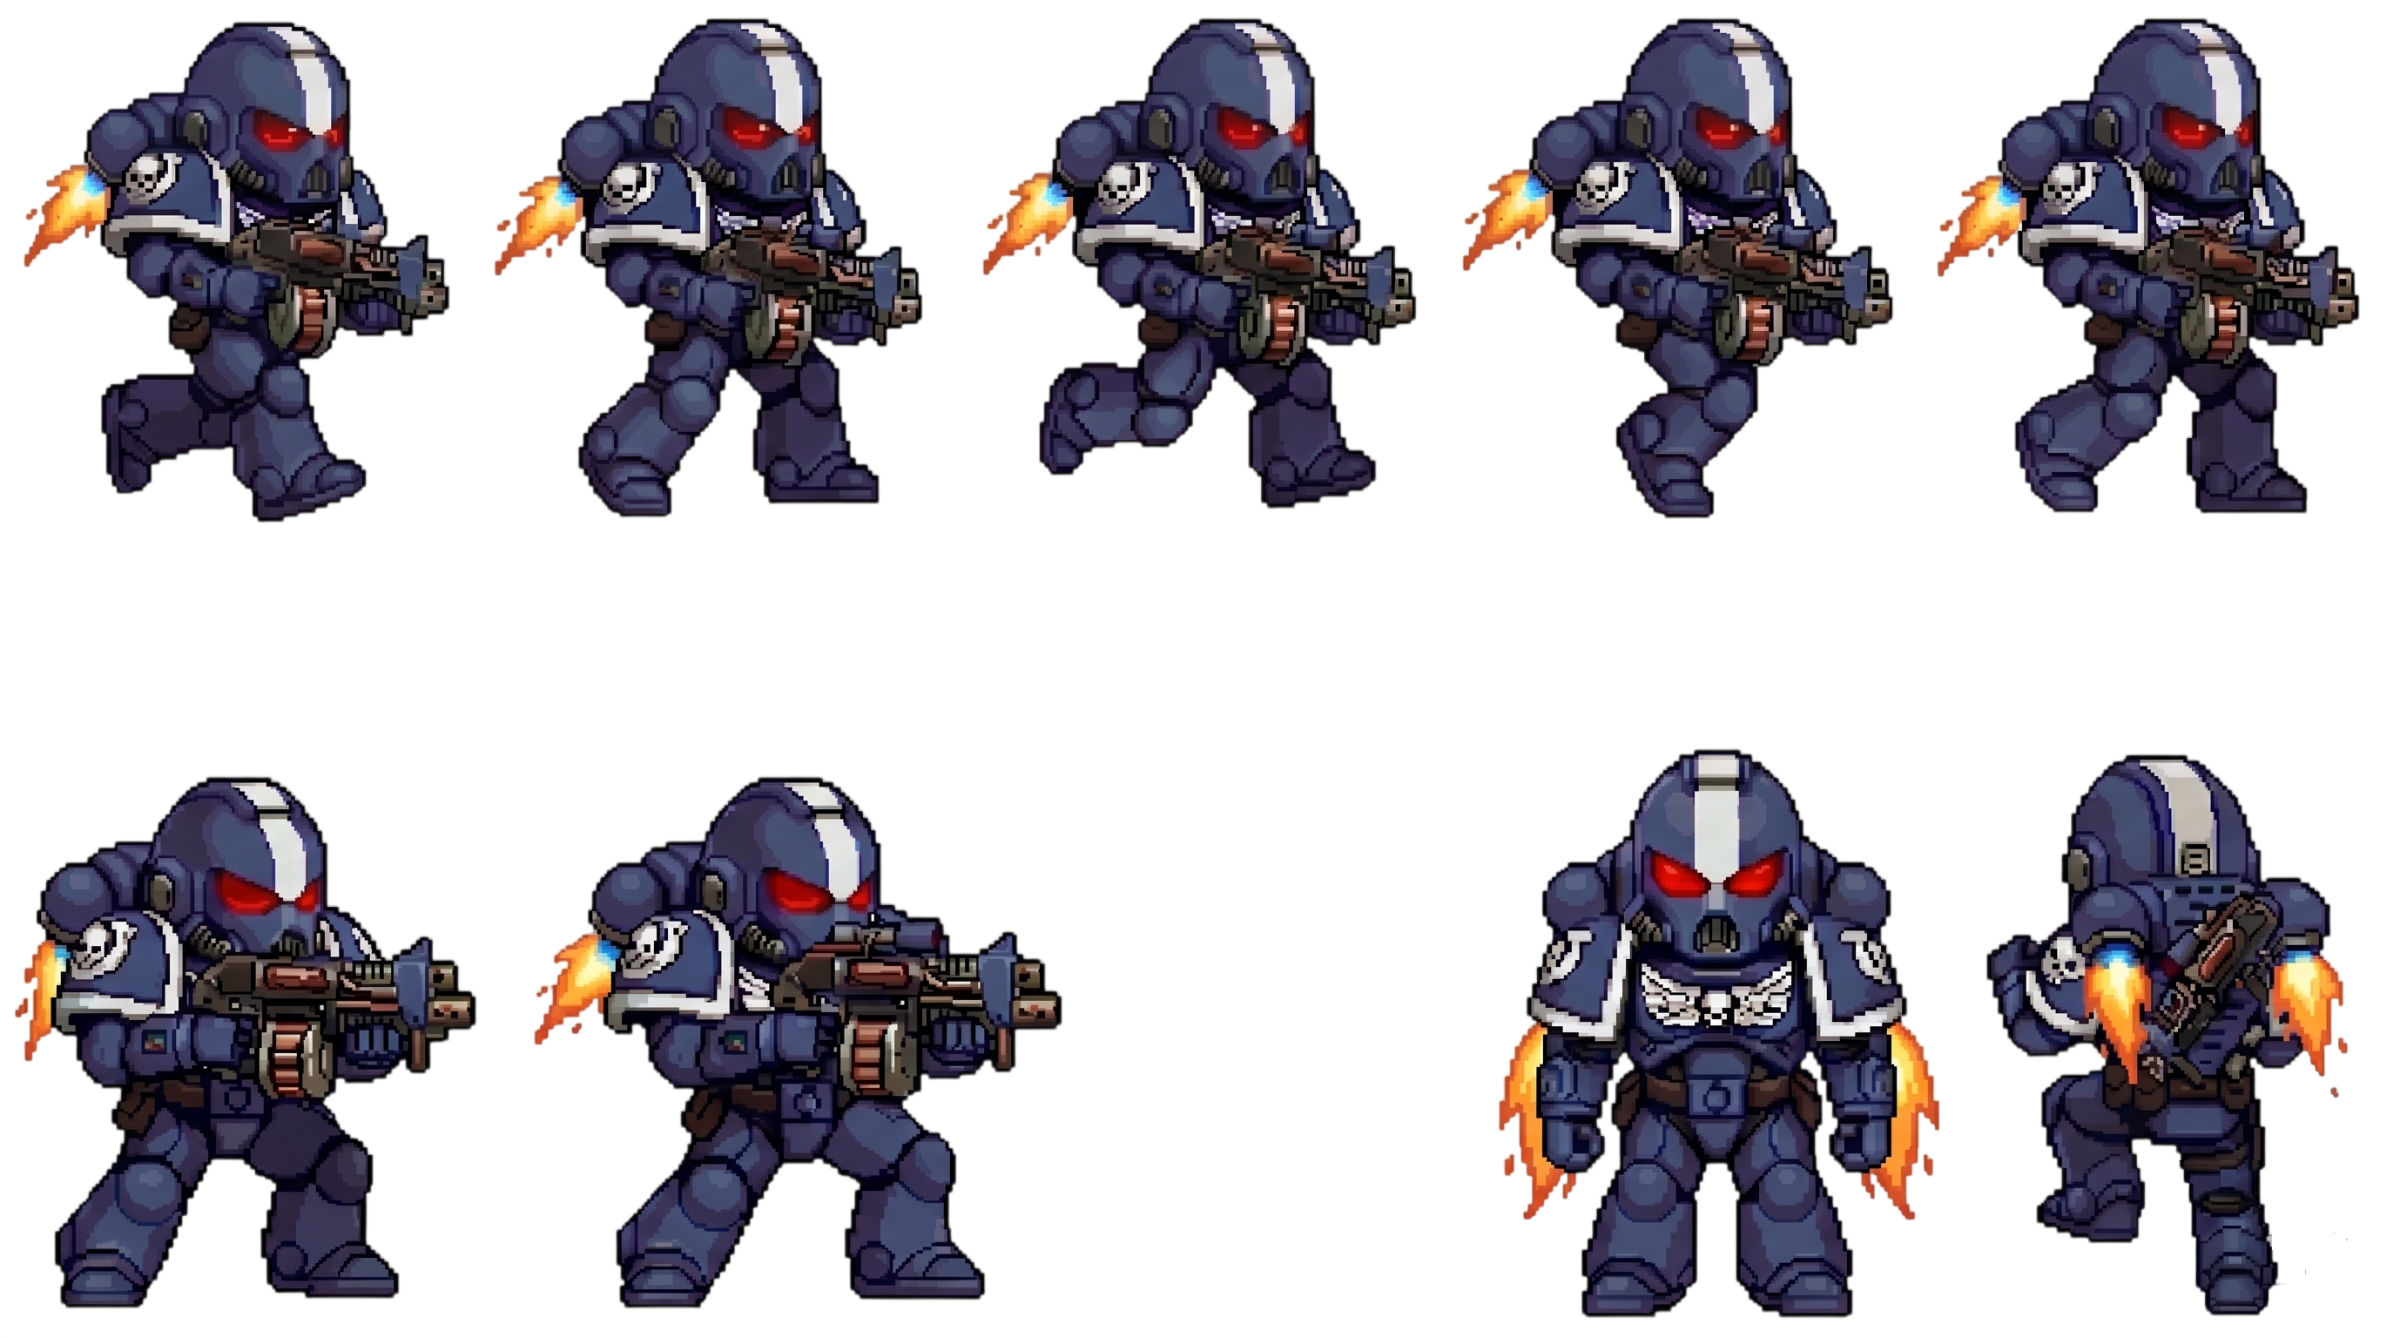
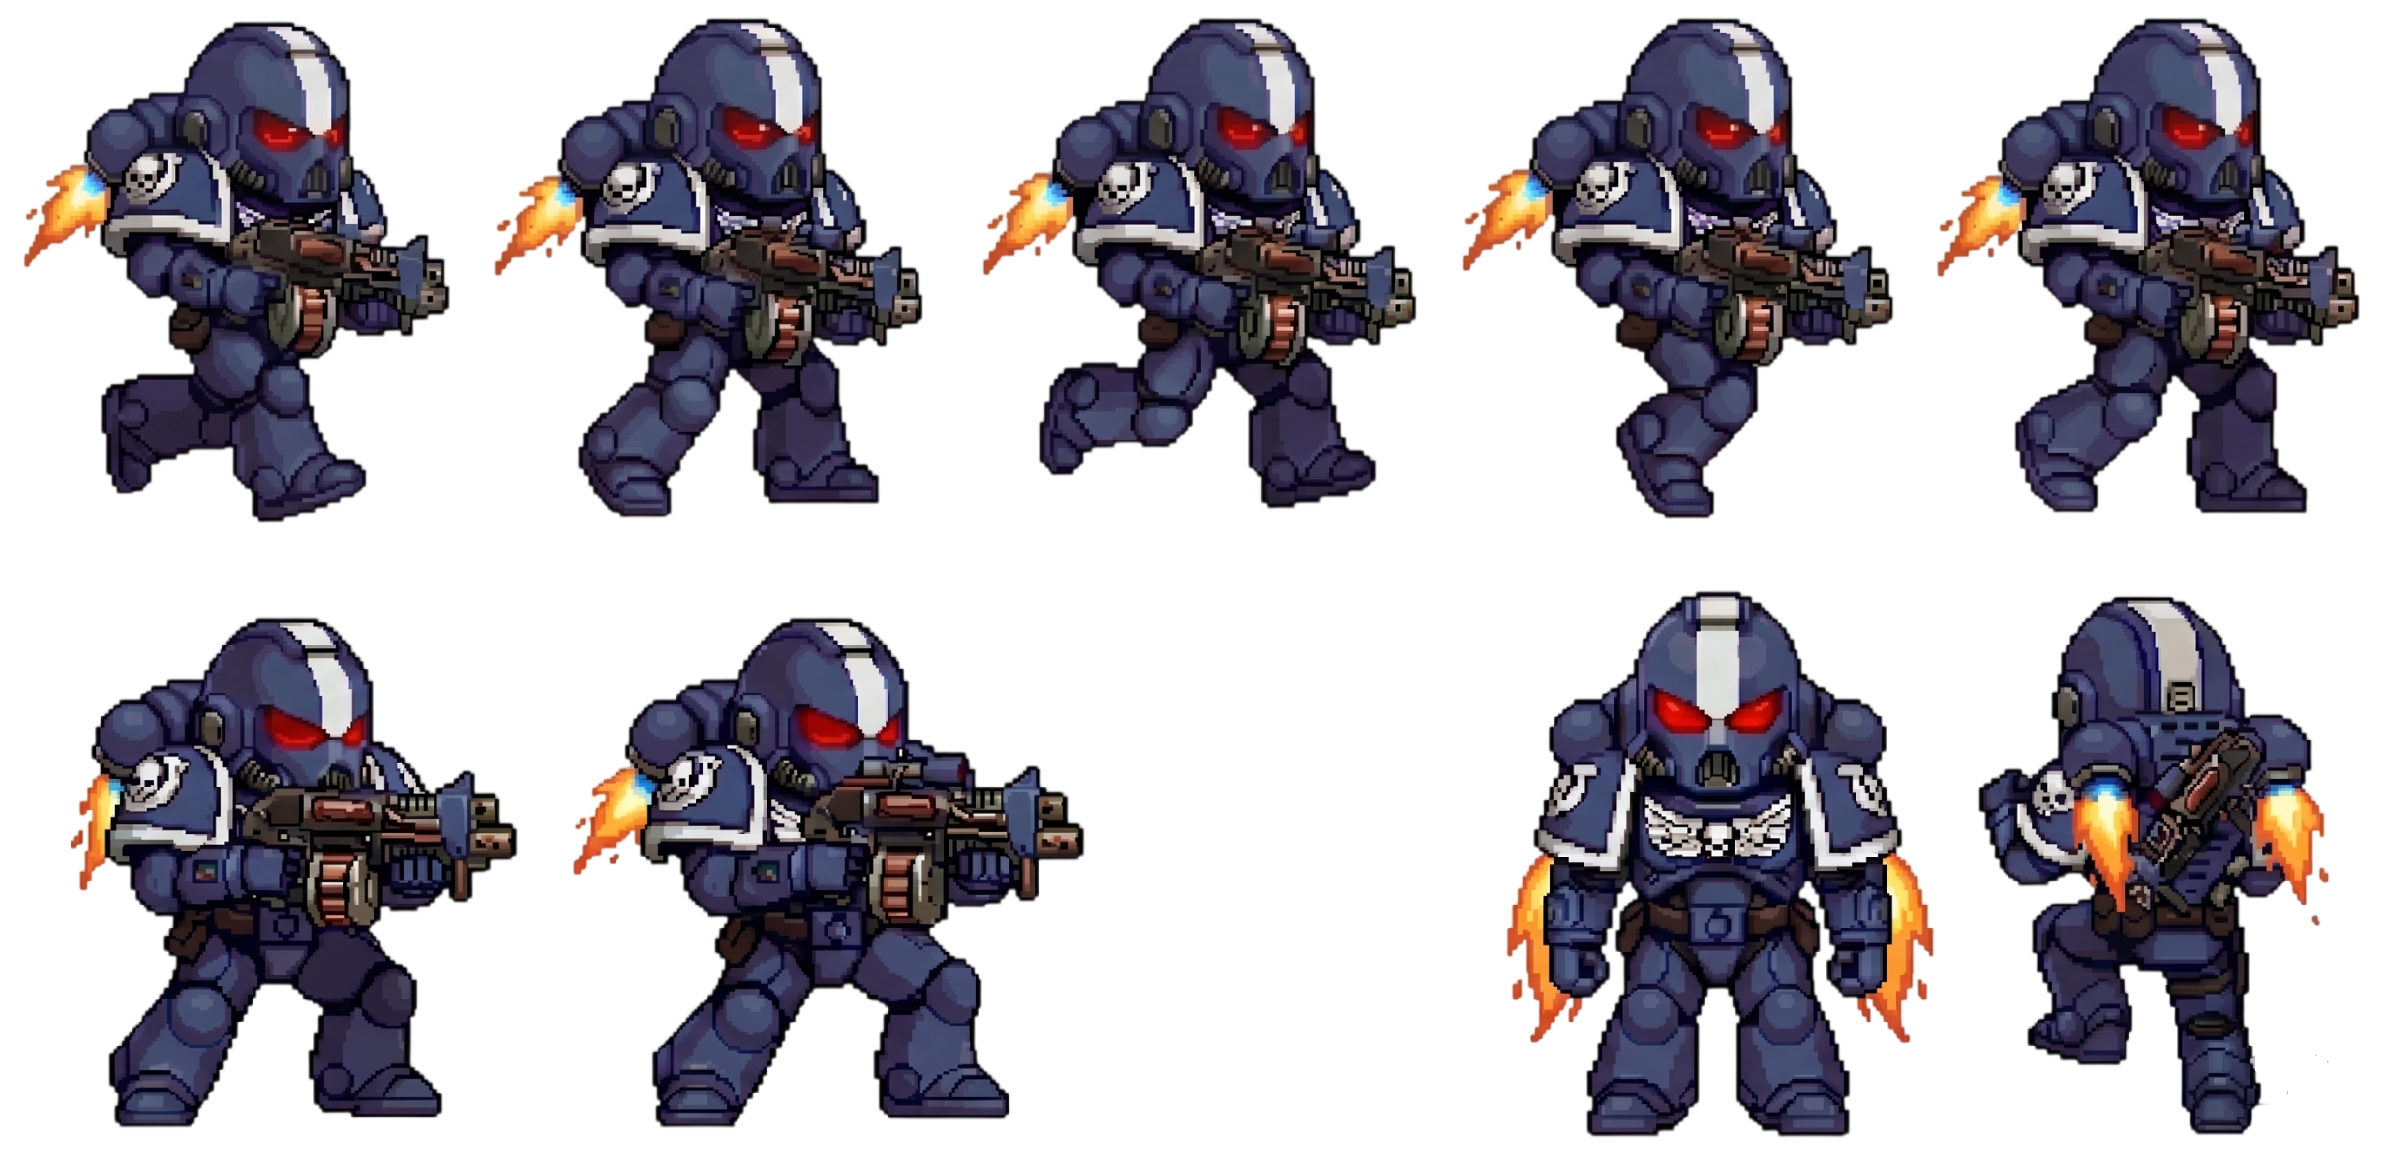
Correcion de sprites y animaciones de ataque

diff --git a/ARCHON_WARHAMMER 40K/src/ClaseArcher.cpp b/ARCHON_WARHAMMER 40K/src/ClaseArcher.cpp
@@ -33,10 +33,14 @@ ClaseArcher::ClaseArcher(Bando b, sf::Vector2i pos, std::string tipo)
     cargarConfigurarSprites(tipo);
 
     //Resgistro de la animación independiente:
-    if (animador) {
+    if (animador) { 
+        animador->agreganAnimacion("ATAQUE", 1, 1, 2, 0.20f, true); //APAÑO spritesheet
         animador->agreganAnimacion("PREPARANDO_SIGILO", 1, 2, 2, 0.20f, true);
         animador->agreganAnimacion("PREPARANDO_SIGILO", 1, 2, 2, 0.20f, true); //Apaño posiciones spritesheet
     }
+
+       
+
 }
 //Método de animar sobreescrito por la animación exclusia:
 void ClaseArcher::animar(float dt, sf::Vector2f direccion) {

diff --git a/ARCHON_WARHAMMER 40K/src/ClaseUnicornio.cpp b/ARCHON_WARHAMMER 40K/src/ClaseUnicornio.cpp
@@ -25,6 +25,10 @@ ClaseUnicornio::ClaseUnicornio(Bando b, sf::Vector2i pos, std::string tipo)
 
     // Sprites de los cabezones:
     cargarConfigurarSprites(tipo);
+
+    if (animador) {
+        animador->agreganAnimacion("ATAQUE", 1, 1, 2, 0.30f, true); //APAÑO spritesheet
+    }
 }
 
 //Físicas y animación:

diff --git a/ARCHON_WARHAMMER 40K/src/ClaseGolem.cpp b/ARCHON_WARHAMMER 40K/src/ClaseGolem.cpp
@@ -27,7 +27,7 @@ ClaseGolem::ClaseGolem(Bando b, sf::Vector2i pos, std::string tipo)
     cargarConfigurarSprites(tipo);
 
     if (animador) {
-        animador->agreganAnimacion("ATAQUE", 1, 2, 2, 0.20f, true);
+        animador->agreganAnimacion("ATAQUE", 1, 1, 2, 0.20f, true);
     }
 
 }

diff --git a/ARCHON_WARHAMMER 40K/src/ClaseValkyria.cpp b/ARCHON_WARHAMMER 40K/src/ClaseValkyria.cpp
@@ -29,6 +29,11 @@ ClaseValkyria::ClaseValkyria(Bando b, sf::Vector2i pos, std::string tipo)
     // Sprites cabezón
     cargarConfigurarSprites(tipo);
 
+    if (animador) {
+        animador->agreganAnimacion("ATAQUE", 1, 1, 2, 0.20f, true);
+    }
+ 
+
 }
 
 // Físicas y animación
